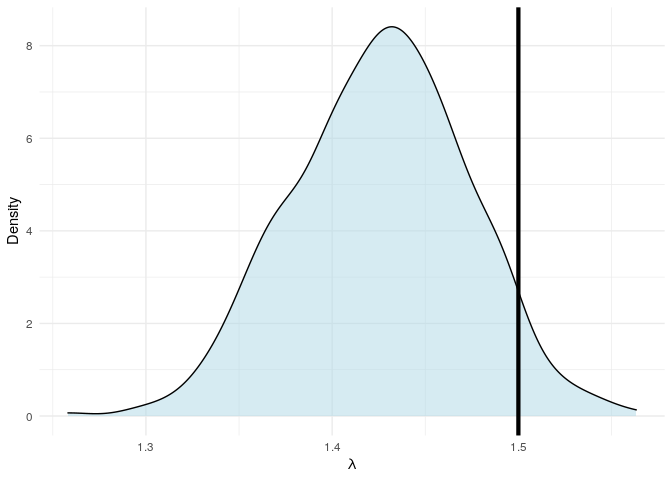
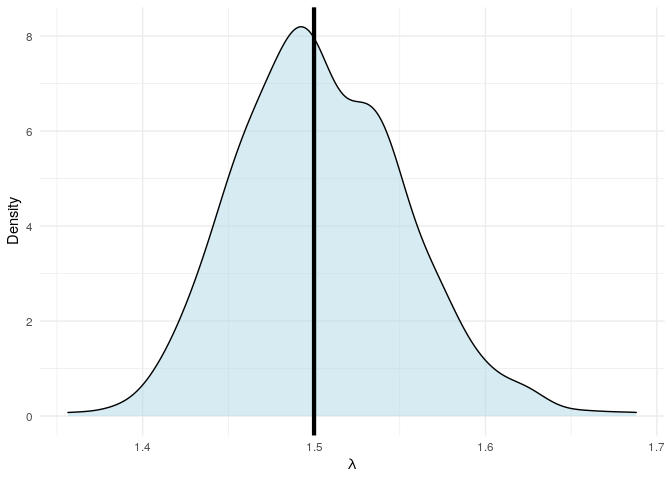
updating readme ex

diff --git a/README.md b/README.md
@@ -70,10 +70,10 @@ fit_hrc(u = data[,1], v = data[,2], initial_est = 1)
 ```
 
     ## $estimate
-    ## [1] 1.48058
+    ## [1] 1.409737
     ## 
     ## $ci
-    ## [1] 1.38693 1.57423
+    ## [1] 1.318568 1.500907
 
 ### Esimating generalised pareto marings and dependence parameter of a Hüsler-Reiss copula jointly
 
@@ -122,11 +122,6 @@ scale and shape parameters of GPD margin 1. Equivalent for margin 2.
 dependence_mod = fit_hrc(data[,1], data[,2], initial_est = 1)
 
 marg1_mod = fit_gpd(x, initial_est = c(1,0))
-```
-
-    ## Warning in sqrt(.): NaNs produced
-
-``` r
 marg2_mod = fit_gpd(y, initial_est = c(1,0))
 
 data.frame(actual = c(2, -0.1, 1.3, -0.1, 1.5),
@@ -148,13 +143,12 @@ data.frame(actual = c(2, -0.1, 1.3, -0.1, 1.5),
   theme_minimal(12)
 ```
 
-    ## Warning: Removed 1 rows containing missing values (geom_segment).
-
 ![](README_files/figure-gfm/example4-1.png)<!-- -->
 
 ### We can fit a bi-variate copula using a bayesian framework.
 
 ``` r
+set.seed(12345)
 data = rhr(n=1000, lambda = 1.5)
 my_bayesian_fit = fit_hrc_bay(data[,1], 
                               data[,2],
